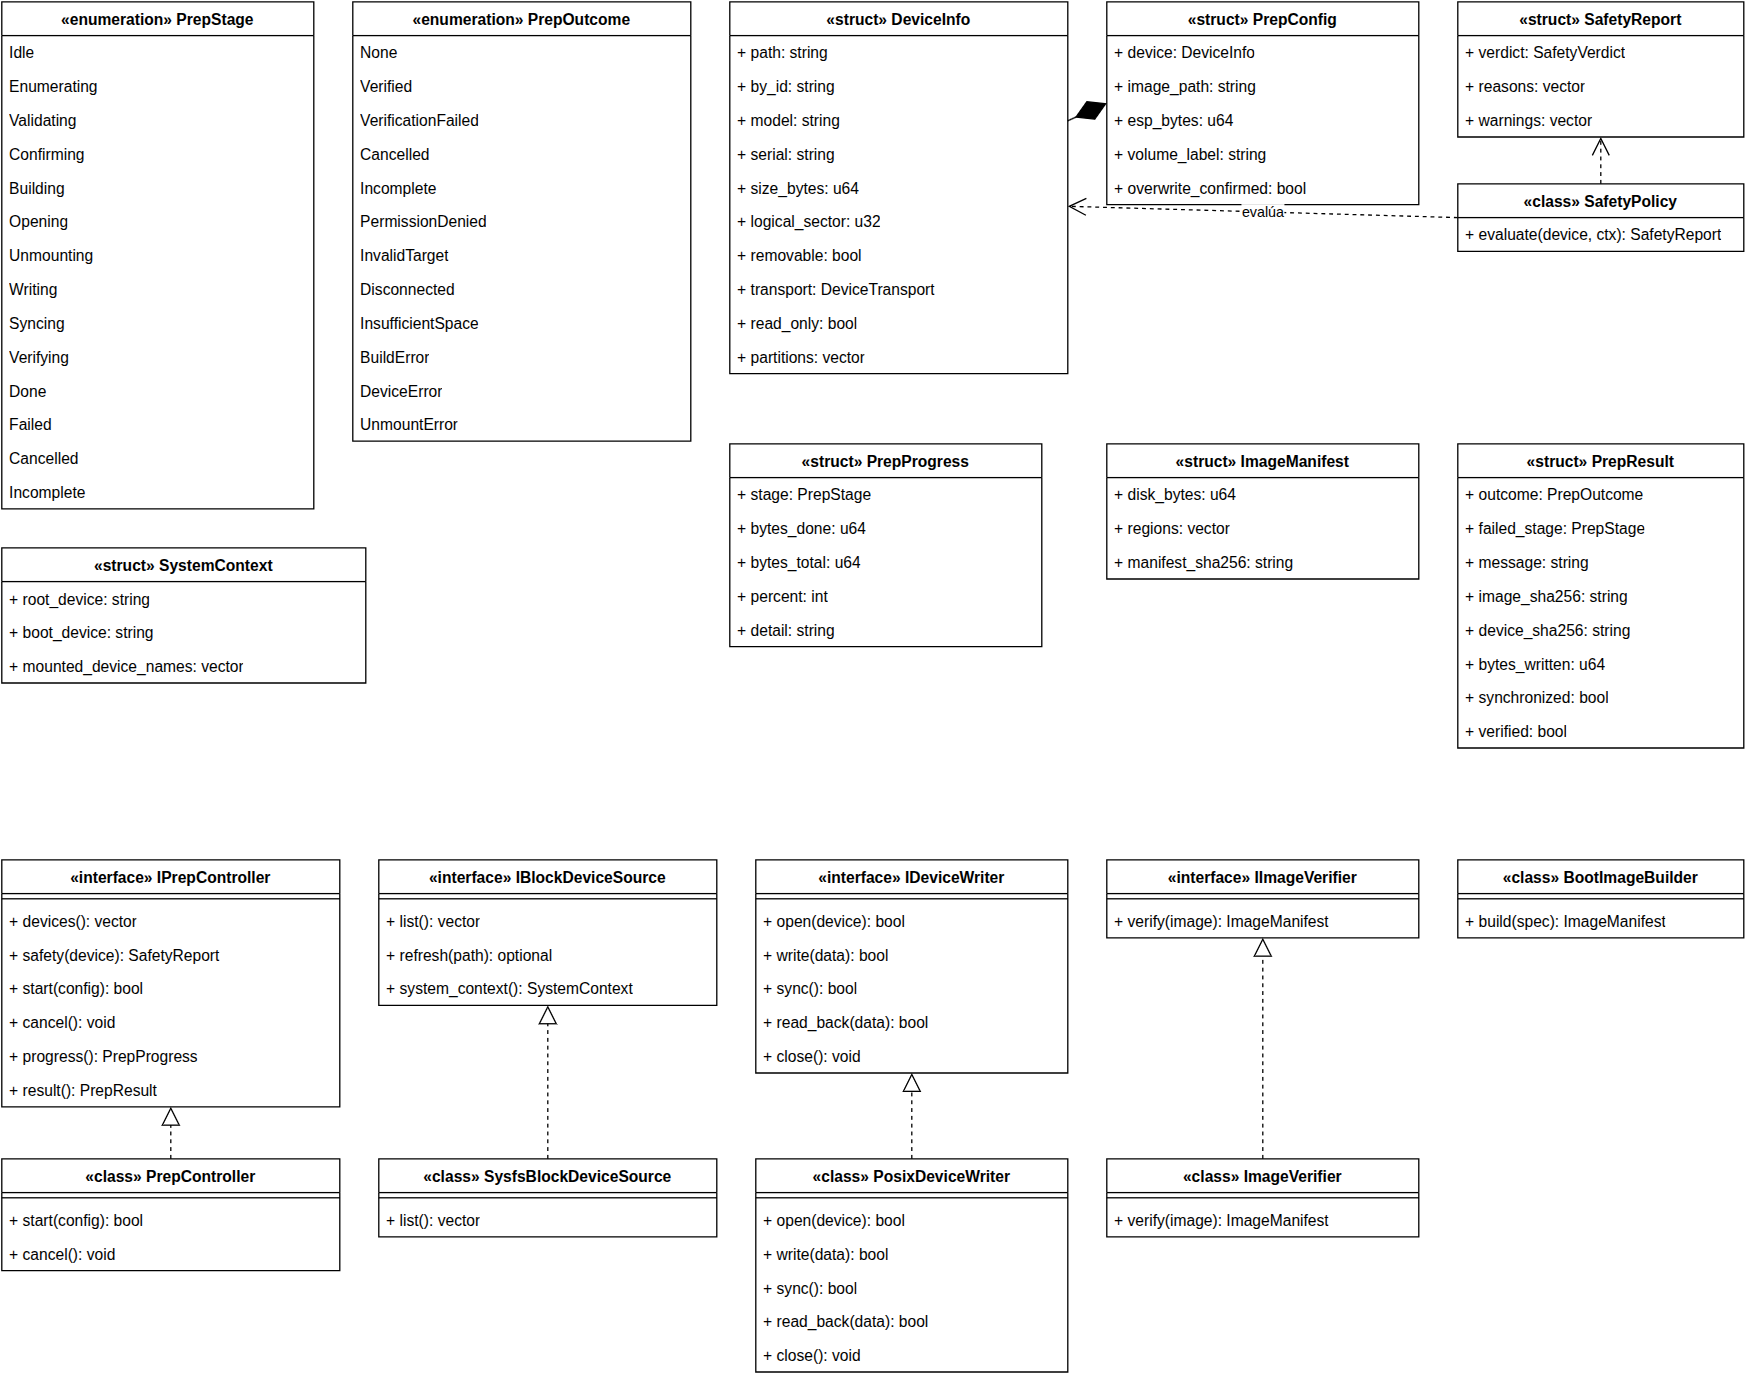
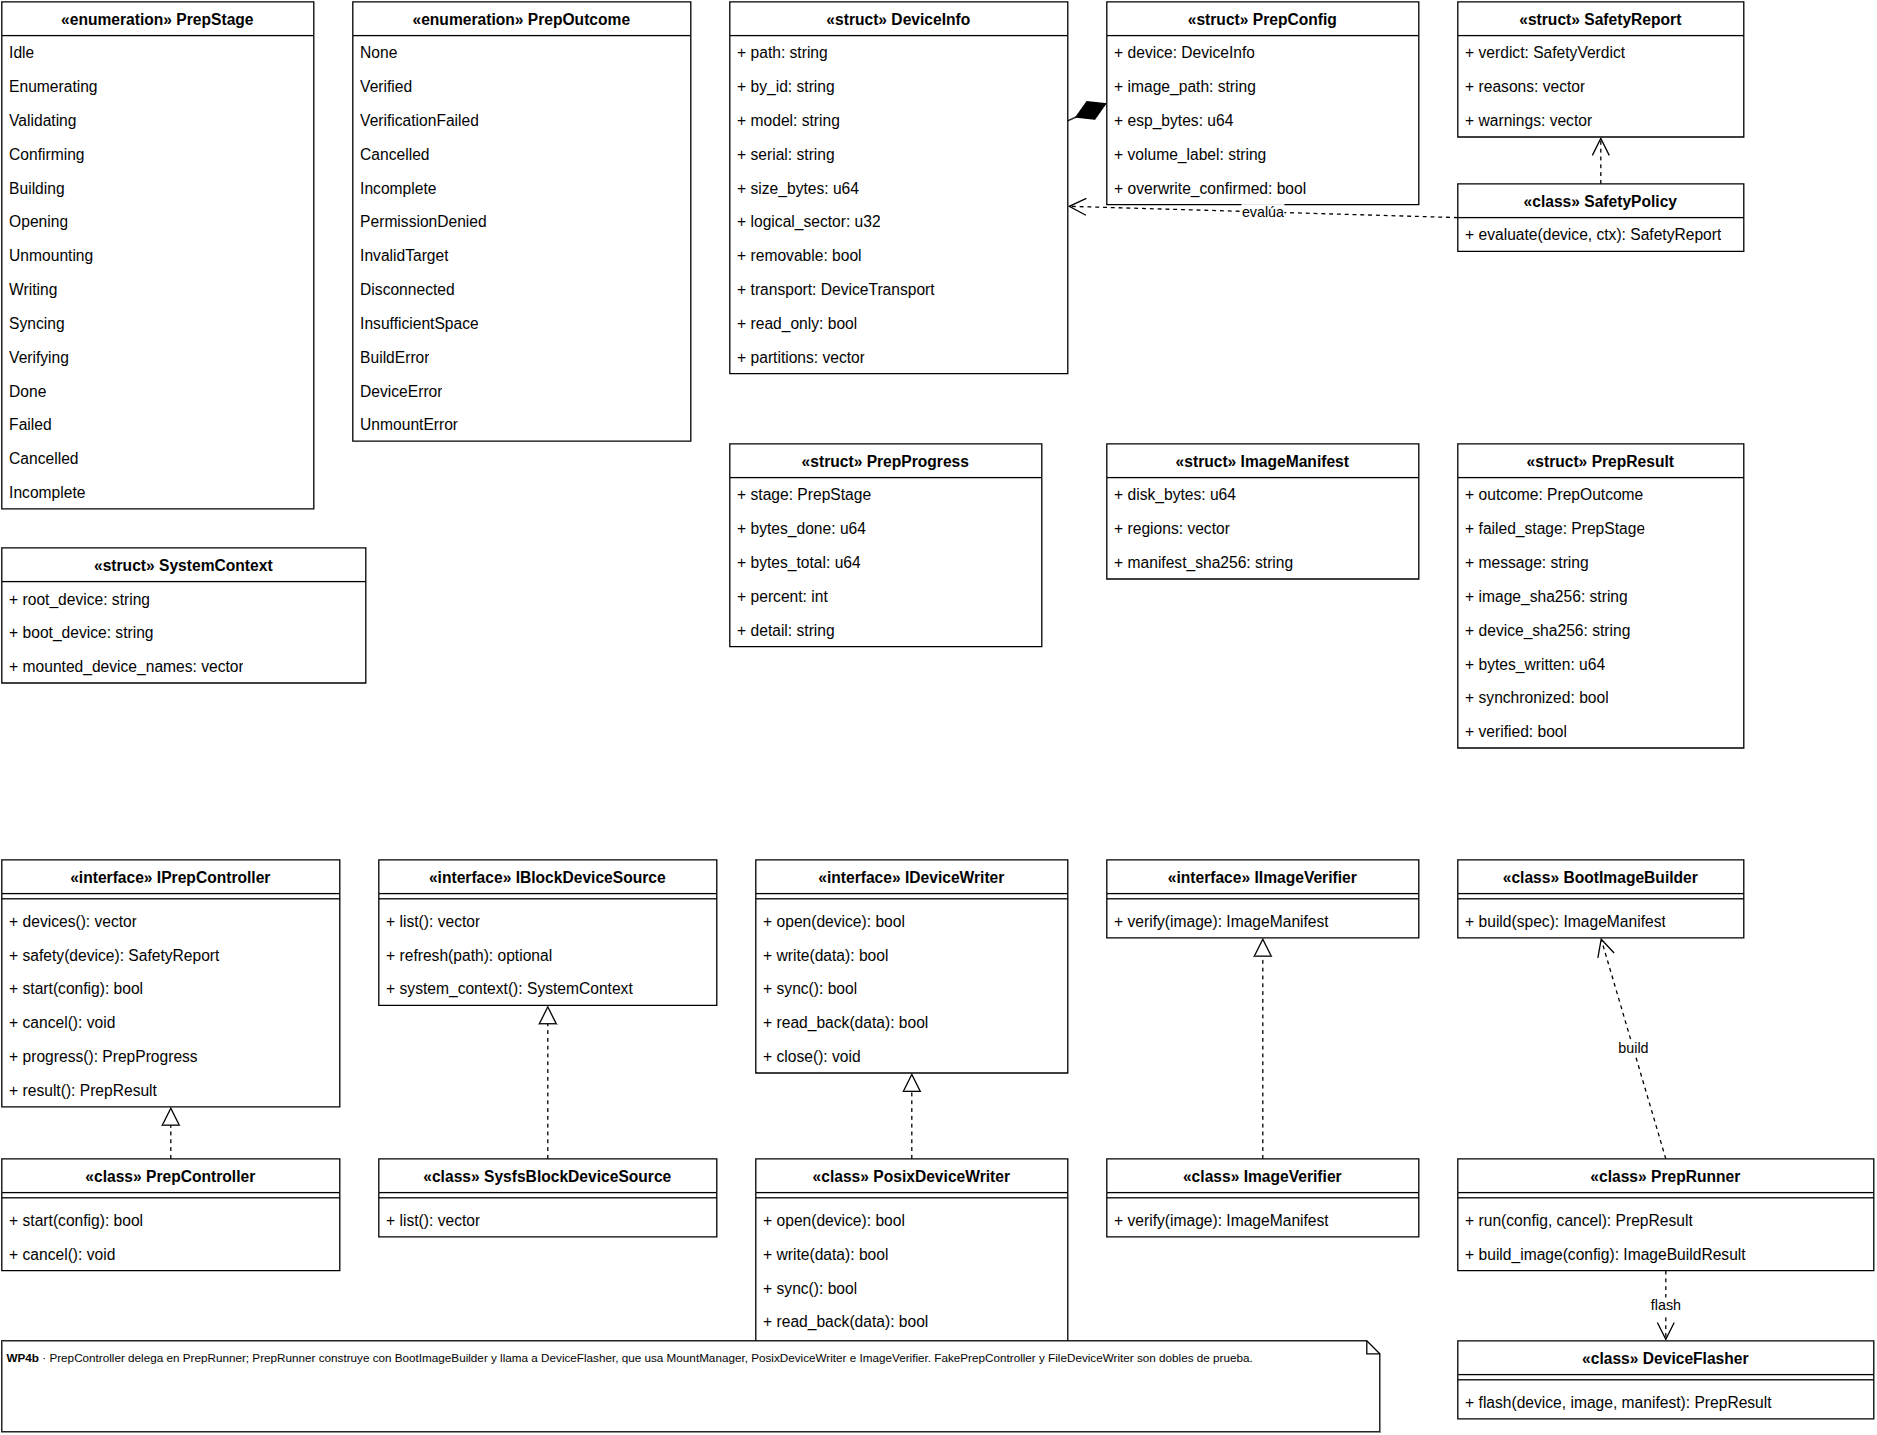
docs(diagrama): regenerar clases y secuencia con PrepRunner y DeviceFlasher

diff --git a/tools/generate_diagram.py b/tools/generate_diagram.py
@@ -167,7 +167,7 @@ c.append(box(
 c.append(box(
     "cmp_app", ST_COMPONENT,
     "<b>app/</b><br><font style='font-size:9px;color:#666666'>dueño del ciclo de vida</font><br>"
-    "PrepController · PrepRunner · CancellationToken<br>FakePrepController<br>"
+    "PrepController · PrepRunner · IPrepRunner<br>FakePrepController<br>"
     "Orquesta etapas, progreso y cancelación",
     70, 270, 720, 95))
 c.append(box(
@@ -381,6 +381,13 @@ add("impl_writer", "«class» PosixDeviceWriter", [], 620, 930, 240, methods=[
 add("impl_verify", "«class» ImageVerifier", [], 890, 930, 240, methods=[
     "+ verify(image): ImageManifest",
 ])
+add("impl_runner", "«class» PrepRunner", [], 1160, 930, 320, methods=[
+    "+ run(config, cancel): PrepResult",
+    "+ build_image(config): ImageBuildResult",
+])
+add("impl_flasher", "«class» DeviceFlasher", [], 1160, 1070, 320, methods=[
+    "+ flash(device, image, manifest): PrepResult",
+])
 
 # Relaciones estructurales
 c.append(rel("rel_composition", "cls_config", "cls_device", ST_COMP, "",
@@ -398,16 +405,32 @@ c.append(rel("rel_writer", "impl_writer", "if_writer", ST_REAL, "",
              (0.5, 0.0), (0.5, 1.0)))
 c.append(rel("rel_verify", "impl_verify", "if_verify", ST_REAL, "",
              (0.5, 0.0), (0.5, 1.0)))
+# Flujo real de WP4b: el runner construye y delega la escritura/verificación en
+# DeviceFlasher. Las flechas se mantienen verticales para no cruzar el resto de
+# las clases; el resto del flujo se ve en la página 3.
+c.append(rel("rel_runner_builder", "impl_runner", "cls_builder", ST_DEP, "build",
+             (0.5, 0.0), (0.5, 1.0)))
+c.append(rel("rel_runner_flasher", "impl_runner", "impl_flasher", ST_DEP, "flash",
+             (0.5, 1.0), (0.5, 0.0)))
+c.append(box(
+    "cls_note_wp4b", ST_NOTE,
+    "<b>WP4b</b> · PrepController delega en PrepRunner; PrepRunner construye con "
+    "BootImageBuilder y llama a DeviceFlasher, que usa MountManager, "
+    "PosixDeviceWriter e ImageVerifier. FakePrepController y FileDeviceWriter son "
+    "dobles de prueba.",
+    40, 1070, 1060, 70))
 pages.append(page("classes", "2 · Clases", c))
 
 # =============================================================== Página 3
 c = []
 lifelines = [
-    ("life_ui", "UI\nMainScene", 80),
-    ("life_ctrl", "PrepController", 340),
-    ("life_img", "BootImageBuilder", 600),
-    ("life_writer", "PosixDeviceWriter", 860),
-    ("life_dev", "Dispositivo\n/dev/sdX", 1120),
+    ("life_ui", "UI\nAppScene", 60),
+    ("life_ctrl", "PrepController", 280),
+    ("life_runner", "PrepRunner", 500),
+    ("life_flasher", "DeviceFlasher", 720),
+    ("life_img", "BootImageBuilder", 940),
+    ("life_writer", "PosixDeviceWriter", 1160),
+    ("life_dev", "Dispositivo\n/dev/sdX", 1380),
 ]
 for lid, label, x in lifelines:
     c.append(
@@ -433,18 +456,19 @@ def msg(cid, src, dst, label, y, ret=False):
 
 msgs = [
     ("sm1", "life_ui", "life_ctrl", "preparar(config)", 150, False),
-    ("sm2", "life_ctrl", "life_img", "build(spec)", 205, False),
-    ("sm2r", "life_img", "life_ctrl", "imagen + manifiesto", 245, True),
-    ("sm3", "life_ctrl", "life_writer", "desmontar(particiones)", 300, False),
-    ("sm3b", "life_ctrl", "life_writer", "open(device)", 340, False),
-    ("sm4", "life_ctrl", "life_writer", "write(regiones)", 385, False),
-    ("sm4d", "life_writer", "life_dev", "write()", 425, False),
-    ("sm5", "life_ctrl", "life_writer", "fsync + BLKFLSBUF", 470, False),
-    ("sm6", "life_ctrl", "life_writer", "verificar(manifiesto)", 515, False),
-    ("sm6d", "life_writer", "life_dev", "read()", 555, False),
-    ("sm7", "life_writer", "life_ctrl", "hashes del dispositivo", 610, True),
-    ("sm8", "life_ctrl", "life_ui", "PrepResult", 660, True),
-    ("sm9", "life_ui", "life_ctrl", "cancelar()", 710, False),
+    ("sm2", "life_ctrl", "life_runner", "run(config, cancel)", 200, False),
+    ("sm3", "life_runner", "life_img", "build(spec)", 250, False),
+    ("sm3r", "life_img", "life_runner", "imagen + manifiesto", 290, True),
+    ("sm4", "life_runner", "life_flasher", "flash(device, image, manifest)", 340, False),
+    ("sm4a", "life_flasher", "life_writer", "desmontar + open", 390, False),
+    ("sm4b", "life_writer", "life_dev", "write()", 430, False),
+    ("sm5", "life_flasher", "life_writer", "fsync + BLKFLSBUF", 475, False),
+    ("sm6", "life_flasher", "life_writer", "verificar(manifiesto)", 520, False),
+    ("sm6d", "life_writer", "life_dev", "read()", 560, False),
+    ("sm7", "life_flasher", "life_runner", "PrepResult", 610, True),
+    ("sm8", "life_runner", "life_ctrl", "PrepResult", 655, True),
+    ("sm9", "life_ctrl", "life_ui", "PrepResult", 695, True),
+    ("sm10", "life_ui", "life_ctrl", "cancelar()", 735, False),
 ]
 for m in msgs:
     c.append(msg(*m))

diff --git a/docs/diagramas/README.md b/docs/diagramas/README.md
@@ -6,7 +6,9 @@ para poder revisarlo en el repositorio.
 
 El estilo es monocromo: contenedores para los dos mundos y el medio, cajas de
 componente para los módulos, `swimlane` con compartimentos para las clases,
-`shape=umlLifeline` para la secuencia y flechas UML para las relaciones.
+`shape=umlLifeline` para la secuencia y flechas UML para las relaciones. La
+página de clases y la de secuencia incluyen el flujo real de WP4b
+(`PrepController` → `PrepRunner` → `DeviceFlasher`).
 
 | # | Página | Archivo |
 |---|---|---|
